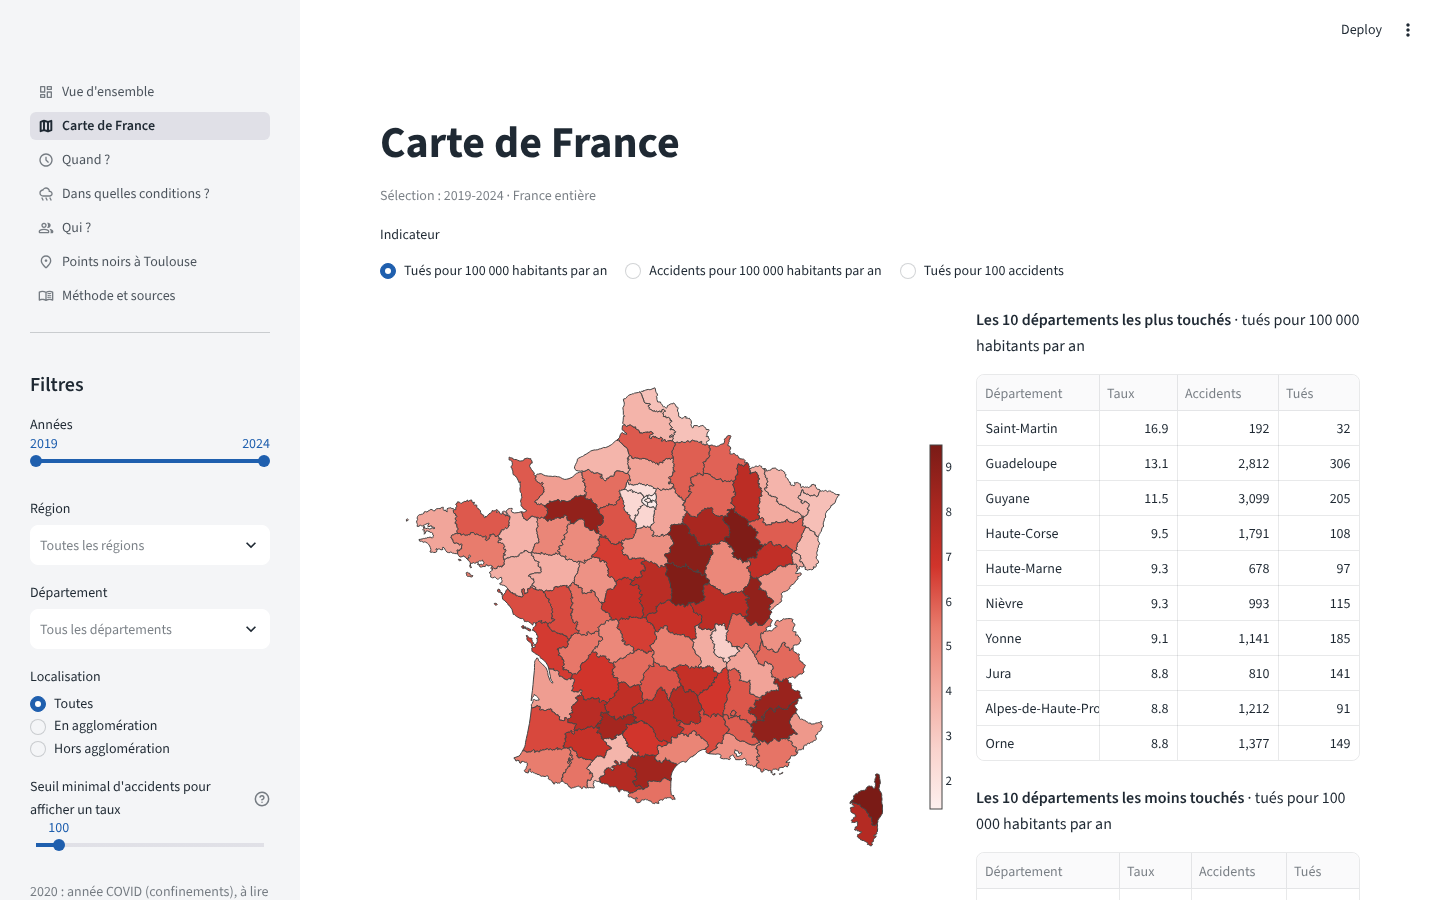
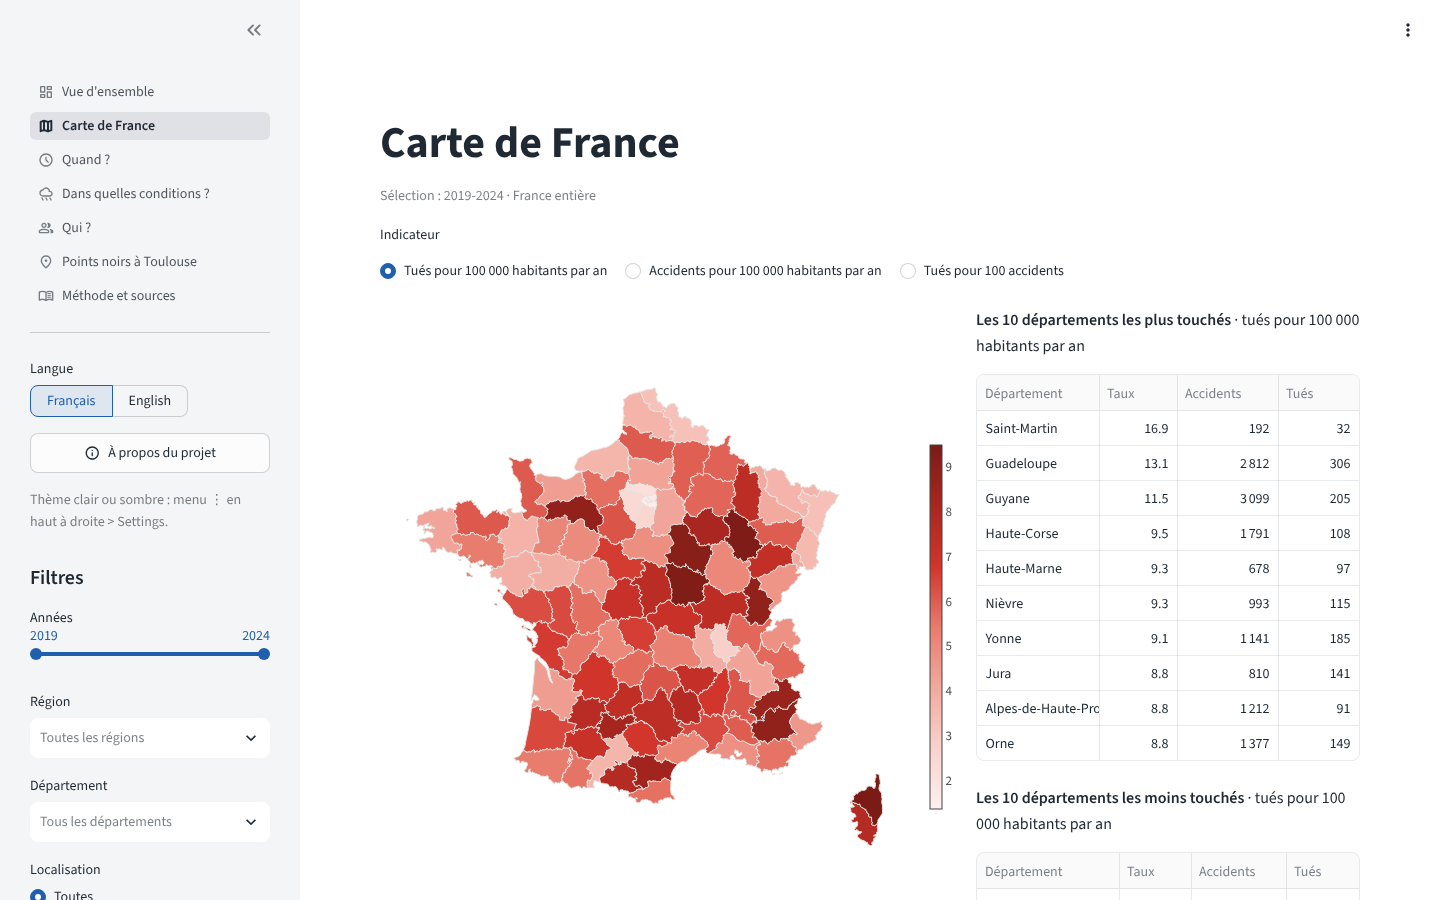
docs: bilingual and dark theme web app in README

diff --git a/README.md b/README.md
@@ -60,12 +60,22 @@ Une version web interactive reprend toute l'analyse, avec des filtres par année
 département, localisation et seuil d'affichage des taux : vue d'ensemble, carte de France, « Quand ? »,
 « Dans quelles conditions ? », « Qui ? », points noirs à Toulouse et méthode.
 
+* **En français et en anglais** : sélecteur dans la barre latérale, langue du navigateur par défaut,
+  et lien direct possible avec `?lang=en` ou `?lang=fr`. Les libellés des données (luminosité, types
+  de route, usagers…) sont aussi traduits.
+* **Thème clair ou sombre** : selon le réglage du système, ou dans le menu ⋮ > *Settings* ; les
+  graphiques et les cartes changent de couleurs avec le thème.
+* **Fenêtre d'accueil** à la première visite, qui présente le projet et son utilisation ; elle se
+  rouvre avec le bouton « À propos du projet ».
+
 *Lien public : à ajouter après le déploiement sur Streamlit Community Cloud (voir « Lancer le projet »).*
 
-| Vue d'ensemble | Carte de France |
+| Fenêtre d'accueil | Vue d'ensemble |
 |---|---|
-| ![Application - vue d'ensemble](reports/figures/app_vue_ensemble.png) | ![Application - carte](reports/figures/app_carte.png) |
-| **Qui ?** | **Points noirs à Toulouse** |
+| ![Application - accueil](reports/figures/app_welcome.png) | ![Application - vue d'ensemble](reports/figures/app_vue_ensemble.png) |
+| **Carte de France** | **Map of France (English, dark theme)** |
+| ![Application - carte](reports/figures/app_carte.png) | ![Application - carte en anglais, thème sombre](reports/figures/app_map_dark_en.png) |
+| **Qui ?** | **Toulouse black spots (English, dark theme)** |
 | ![Application - qui](reports/figures/app_qui.png) | ![Application - points noirs](reports/figures/app_points_noirs.png) |
 
 ### Tableau de bord Power BI
@@ -117,7 +127,7 @@ département, localisation et seuil d'affichage des taux : vue d'ensemble, carte
 * **Statistiques** : intervalles de Wilson, khi-deux et V de Cramér, régression logistique
   (rapports de cotes), contrôle prédictif scikit-learn (test sur 2024 : ROC AUC 0,78), DBSCAN pour
   les points noirs. Aucun taux n'est affiché sous 100 accidents.
-* Contrôles : 87 tests automatisés (58 pour le pipeline, 29 pour l'application web), résultats SQL
+* Contrôles : 112 tests automatisés (58 pour le pipeline, 54 pour l'application web), résultats SQL
   et Python identiques, totaux conformes aux bilans ONISR.
 
 Détails : [`docs/methodology.md`](docs/methodology.md), [`docs/cleaning_report.md`](docs/cleaning_report.md),
